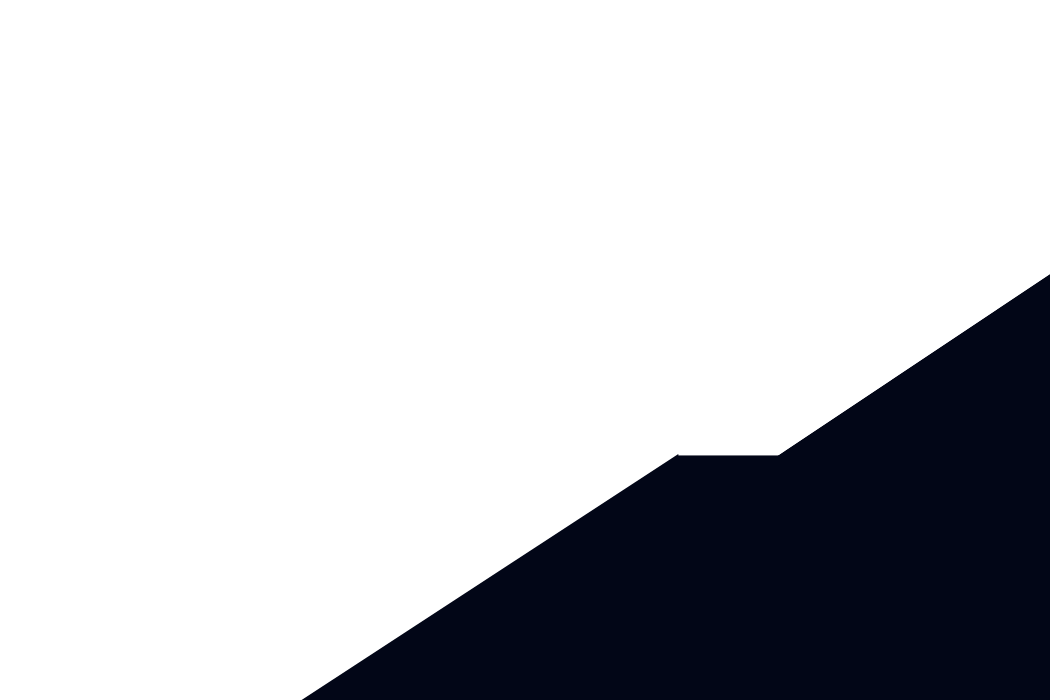
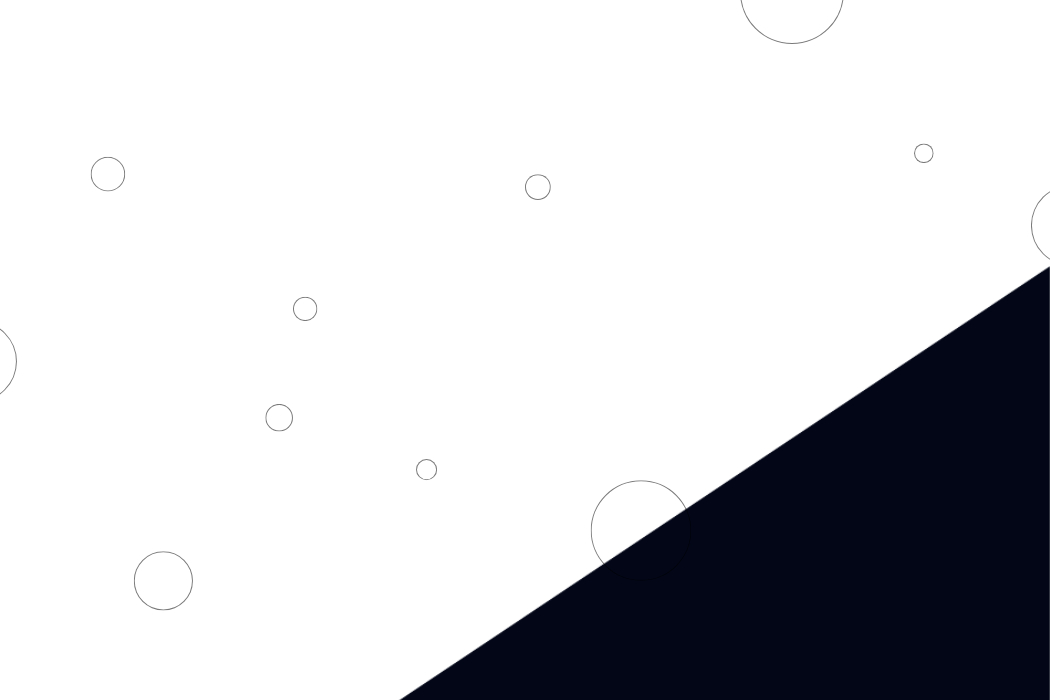
page addition

diff --git a/src/components/QuoteComponent.jsx b/src/components/QuoteComponent.jsx
@@ -1,36 +1,64 @@
 import React from 'react'
-import { RiDoubleQuotesL } from "react-icons/ri";
-import { RiDoubleQuotesR } from "react-icons/ri";
+import { assets } from '../assets/assets';
+import { Link } from 'react-router-dom';
+import { FaUserGraduate } from "react-icons/fa6";
+import { FaGraduationCap } from "react-icons/fa6";
+import { GiDiploma } from "react-icons/gi";
+import { PiCertificateFill } from "react-icons/pi";
+import { AiFillSafetyCertificate } from "react-icons/ai";
+import { FaCertificate } from "react-icons/fa";
+
 
 const QuoteComponent = () => {
   return (
-    <div className='flex items-center justify-between quote-page -z-10 px-4 sm:px-8 min-h-[60vh] bg-white mx-6 rounded-2xl mb-4 bg-bg-blend-hard-light py-10 lg:py-0 overflow-hidden'>
-        <div className='overlay -z-10'></div>
+    <div className='flex items-center justify-between quote-page px-4 sm:px-8 min-h-[60vh] bg-white mx-6 rounded-2xl mb-4 bg-bg-blend-hard-light py-10 lg:py-0 overflow-hidden'>
+        <div className='overlay '></div>
 
-        <div className='text-white flex flex-col lg:flex-row justify-between gap-4 mr-4'>
-            <div className='max-w-[700px]'>
-                <h1 className='text-4xl sm:text-5xl font-semibold mb-2'>Quote of the day</h1>
-                <p className='text-lg text-gray-100'>
-                    <RiDoubleQuotesL/>
-                    Education is the passport to the future, for tomorrow belongs to those who prepare for it today
-                    <RiDoubleQuotesR/>
-                </p>
-
-                <div className='mt-3'>
-                    <h2 className='font-medium text-xl mb-2'>Meaning of the quote</h2>
-                    <p>
-                    This quote by Malcom X emphasizes the essential role of education in shaping our future and highlights that proactive learning and preparation are crucial for success. It serves as a reminder that investing in our education is not just about acquiring knowledge; it's about equipping ourselves to seize future opportunities and navigate challenges effectively.
+        <div className='text-white z-10 py-10'>
+            <div className='grid md:grid-cols-2 justify-between gap-4'>
+                <div>
+                    <h1 className='text-3xl md:text-4xl font-semibold mb-4'>University of the Day</h1>
+                    <img className='md:w-[30vw] mb-3 shadow-2xl rounded-2xl' src={assets.zetect_logo} />
+                    <p className='text-xl font-medium mb-3'>Motto: Invent your future</p>
+                    <p className='mb-5'>Zetech University is a leading technology and entrepreneurial university in Kenya that is committed to promoting excellence in education and research by integrating innovation and technology to impact society.</p>
+                    <p className='bg-slate-900 w-fit px-4 py-2 rounded-2xl cursor-pointer hover:bg-orange-900 hover:shadow-md'>
+                        <Link to='https://www.zetech.ac.ke/' target='_blank'>Learn More</Link>
                     </p>
                 </div>
-            </div>
-
-            <form className='w-full '>
-                <h3 className='mb-3 mt-4 lg:mt-0 text-xl'>Get more quotes</h3>
-                <div className='w-full sm:max-w-[50%] lg:w-full bg-white flex justify-between'>
-                    <input type="text" placeholder='email address' className='bg-transparent border-none outline-non px-3' />
-                    <button type='submit' className='bg-orange-900 py-2 md:px-3'>Subscribe</button>
+                
+                {/* programmes offered at uiniversity of the day */}
+                <div>
+                    <h4 className='text-2xl text-center mb-4'>Programmes Offered</h4>
+                    <div className='grid sm:grid-cols-2 lg:grid-cols-3 gap-4 gap-y-6 px-6 sm:px-0'>
+                        <div className='programme-card flex flex-col items-center gap-3 px-6 py-4 w-ful text-center text-white rounded-2xl'>
+                            <FaUserGraduate className=' text-slate-900 text-4xl'/>
+                            <p>Post Graduate Courses</p>
+                        </div>
+                        <div className='programme-card flex flex-col items-center gap-3 px-6 py-4 w-ful text-center text-white rounded-2xl'>
+                            <FaGraduationCap className=' text-slate-900 text-4xl'/>
+                            <p>Degree Courses</p>
+                        </div>
+                        <div className='programme-card flex flex-col items-center gap-3 px-6 py-4 w-ful text-center text-white rounded-2xl'>
+                            <GiDiploma className=' text-slate-900 text-4xl'/>
+                            <p>Diploma Courses</p>
+                        </div>
+                        <div className='programme-card flex flex-col items-center gap-3 px-6 py-4 w-ful text-center text-white rounded-2xl'>
+                            <PiCertificateFill className=' text-slate-900 text-4xl'/>
+                            <p>Certificate Courses</p>
+                        </div>
+                        <div className='programme-card flex flex-col items-center gap-3 px-6 py-4 w-ful text-center text-white rounded-2xl'>
+                            <AiFillSafetyCertificate className=' text-slate-900 text-4xl'/>
+                            <p>TVET Courses</p>
+                        </div>
+                        <div className='programme-card flex flex-col items-center gap-3 px-6 py-4 w-ful text-center text-white rounded-2xl'>
+                            <FaCertificate className=' text-slate-900 text-4xl'/>
+                            <p>Corporate Academy</p>
+                        </div>
+                    </div>
                 </div>
-            </form>
+            </div>
+          
+       
         </div>
     </div>
   )

diff --git a/src/assets/assets.js b/src/assets/assets.js
@@ -5,11 +5,16 @@ import hero_left_img3 from './images/hero-left-img3.jpeg';
 import uonImg1 from './images/uonImg1.png';
 import uonImg2 from './images/uonImg2.png';
 
+import newsImg1 from './images/news-img1.png'
+
+import zetect_logo from './images/zetech-logo.png'
+
 
 export const assets = {
     hero_left_img1,
     hero_left_img2,
     hero_left_img3,
+    zetect_logo,
 }
 
 export const institutions = [
@@ -77,4 +82,56 @@ export const institutions = [
         rating: 4.77,
         county: "Mombasa",
     },
+]
+
+export const news = [
+    {
+        _id: "aaa1",
+        image:newsImg1,
+        titleBar:"UoN",
+        title:"UoN Hosts Inaugural Science Communication and Diplomacy Conference",
+        brief_description: "The University of Nairobi played host to the inaugural Science Communication and Diplom"
+    },
+    {
+        _id: "aaa2",
+        image:newsImg1,
+        titleBar:"Goverment Of Kenya",
+        title:"UoN Hosts Inaugural Science Communication and Diplomacy Conference",
+        brief_description: "The University of Nairobi played host to the inaugural Science Communication and Diplom"
+    },
+    {
+        _id: "aaa3",
+        image:newsImg1,
+        titleBar:"UoN",
+        title:"UoN Hosts Inaugural Science Communication and Diplomacy Conference",
+        brief_description: "The University of Nairobi played host to the inaugural Science Communication and Diplom"
+    },
+    {
+        _id: "aaa4",
+        image:newsImg1,
+        titleBar:"UoN",
+        title:"UoN Hosts Inaugural Science Communication and Diplomacy Conference",
+        brief_description: "The University of Nairobi played host to the inaugural Science Communication and Diplom"
+    },
+    {
+        _id: "aaa5",
+        image:newsImg1,
+        titleBar:"UoN",
+        title:"UoN Hosts Inaugural Science Communication and Diplomacy Conference",
+        brief_description: "The University of Nairobi played host to the inaugural Science Communication and Diplom"
+    },
+    {
+        _id: "aaa6",
+        image:newsImg1,
+        titleBar:"UoN",
+        title:"UoN Hosts Inaugural Science Communication and Diplomacy Conference",
+        brief_description: "The University of Nairobi played host to the inaugural Science Communication and Diplom"
+    },
+    {
+        _id: "aaa7",
+        image:newsImg1,
+        titleBar:"UoN",
+        title:"UoN Hosts Inaugural Science Communication and Diplomacy Conference",
+        brief_description: "The University of Nairobi played host to the inaugural Science Communication and Diplom"
+    }
 ]

diff --git a/src/components/TopNews.jsx b/src/components/TopNews.jsx
@@ -1,0 +1,41 @@
+import React, { useContext, useEffect, useState } from 'react'
+import NewsCard from './NewsCard'
+import { FitloContext } from '../context/FitloContext';
+
+const TopNews = () => {
+    const [mainNews, setMainNews] = useState([]);
+    const {news} = useContext(FitloContext);
+
+    useEffect(() => {
+        setMainNews(news.slice(0, 3));
+    }, [])
+
+  return (
+    <section className='bg-gray-50 py-12 min-h-[50vh] *:first-letter:'>
+        {/* News title */}
+        <div className='text-center mb-12'>
+            <div className='flex items-center justify-center text-nowrap  gap-2 mb-2'>
+                <p className='w-16 h-[2px] bg-orange-900'></p>
+                <div></div>
+                <h1 className='text-slate-900 text-3xl font-medium'>Latest News</h1>
+                <p className='w-16 h-[2px] bg-orange-900'></p>
+            </div>
+            <p className='text-slate-700 text-base'>Catch up with top stories from the education sector </p>
+        </div>
+       
+
+        {/* news container */}
+        <div>
+            <div className='grid md:grid-cols-2 lg:grid-cols-3 gap-4'>
+                {
+                    mainNews.map((item, index) => (
+                        <NewsCard key={index} id={item._id} title={item.title} brief_description={item.brief_description} titleBar={item.titleBar} image={item.image}/>
+                    ))
+                }
+            </div>
+        </div>
+    </section>
+  )
+}
+
+export default TopNews

diff --git a/src/components/Hero.jsx b/src/components/Hero.jsx
@@ -1,16 +1,20 @@
 import React from 'react'
 import { assets } from '../assets/assets'
+import { Link } from 'react-router-dom'
 
 const Hero = () => {
   return (
-    <section className='hero  min-h-[90vh] sm:min-h-[88vh] flex items-center overflow-hidden'>
+    <section className='hero min-h-[90vh] sm:min-h-[88vh] flex items-center overflow-hidden'>
       <div className='flex flex-col lg:flex-row justify-between gap-6 items-center'>
         {/* hero left */}
         <div className='font-medium text-lg md:text-xl text-slate-900 mb-2'>
           <h1 className='text-3xl sm:text-5xl font-semibold text-slate-900 mb-2'><span className='text-orange-900'>fitlo</span> is here for all kenyan students</h1>
           <h4 className='mb-1'>We provide a simple way to help students explore various courses offered at kenyan universities</h4>
           <p>All top campuses listed together in one platform</p>
-          <button className='bg-slate-950 text-gray-100 py-2 px-3 rounded-2xl mt-6 text-base hover:bg-orange-900 transition-all duration-150'>Learn More</button>
+          <Link to='#'>
+            <button className='bg-slate-950 text-gray-100 py-2 px-3 rounded-2xl mt-6 text-base hover:bg-orange-900 transition-all duration-150'>Learn More</button>
+          </Link>
+    
         </div>
 
         {/* hero right */}

diff --git a/src/components/NewsCard.jsx b/src/components/NewsCard.jsx
@@ -1,0 +1,17 @@
+import React from 'react'
+import { Link } from 'react-router-dom'
+
+const NewsCard = ({id, title, brief_description, image, titleBar}) => {
+  return (
+    <Link className='text-slate-900 cursor-pointer border pb-2 shadow-md rounded-2xl bg-orange-100' to={`/news/${id}`}>
+        <div className='relative'>
+            <img src={image} className='mb-2 rounded-2xl' />
+            <h3 className='text-orange-900 text-bold mb-2 pl-2'>{title}</h3>
+            <p className='absolute top-2 left-2 bg-slate-900 px-4 py-1 text-white text-sm rounded-2xl'>{titleBar}</p>
+            <p className='text-sm pl-2'>{brief_description}</p>
+        </div>
+    </Link>
+  )
+}
+
+export default NewsCard

diff --git a/src/App.jsx b/src/App.jsx
@@ -5,6 +5,7 @@ import About from './pages/About'
 import Contact from './pages/Contact'
 import Navbar from './components/Navbar'
 import InstitutionInfo from './pages/InstitutionInfo'
+import NewsInfo from './pages/NewsInfo'
 
 const App = () => {
   return (
@@ -13,6 +14,7 @@ const App = () => {
       <Routes>
         <Route path='/' element={<Home/>} />
         <Route path='/institution:institutionId' element={<InstitutionInfo/>} />
+        <Route path='news:newsId' element={<NewsInfo/>}/>
       </Routes>
     </div>
   )

diff --git a/src/pages/Home.jsx b/src/pages/Home.jsx
@@ -4,6 +4,7 @@ import Hero from '../components/Hero';
 import BriefInfo from '../components/BriefInfo';
 import TopSchools from '../components/TopSchools';
 import QuoteComponent from '../components/QuoteComponent';
+import TopNews from '../components/TopNews';
 
 const Home = () => {
     const {useDocumentTitle} = useContext(FitloContext);
@@ -15,6 +16,7 @@ const Home = () => {
       <hr/>
       <TopSchools/>
       <QuoteComponent/>
+      <TopNews/>
     </div>
   )
 }

diff --git a/src/index.css b/src/index.css
@@ -40,9 +40,14 @@ body {
     z-index: 999;
 }
 
+.programme-card {
+    background: rgba(255, 255, 255, 0.3);
+    backdrop-filter: blur(5px);
+}
+
 /* Background images */
 .hero {
-    background: url("../bg-images/heo-bg4.png") no-repeat;
+    background: url("../bg-images/heo-bg5.png") no-repeat;
     background-position: center;
     background-size: cover;
     margin-top: 1rem;

diff --git a/src/context/FitloContext.jsx b/src/context/FitloContext.jsx
@@ -1,5 +1,5 @@
 import { createContext, useRef, useEffect } from "react";
-import { institutions } from "../assets/assets";
+import { institutions, news } from "../assets/assets";
 
 export const FitloContext = createContext();
 
@@ -23,6 +23,7 @@ const FitloContextProvider = (props) => {
 
     const value = {
         institutions,
+        news,
         useDocumentTitle,
     }
 

diff --git a/src/pages/NewsInfo.jsx b/src/pages/NewsInfo.jsx
@@ -1,0 +1,9 @@
+import React from 'react'
+
+const NewsInfo = () => {
+  return (
+    <div>NewsInfo</div>
+  )
+}
+
+export default NewsInfo
